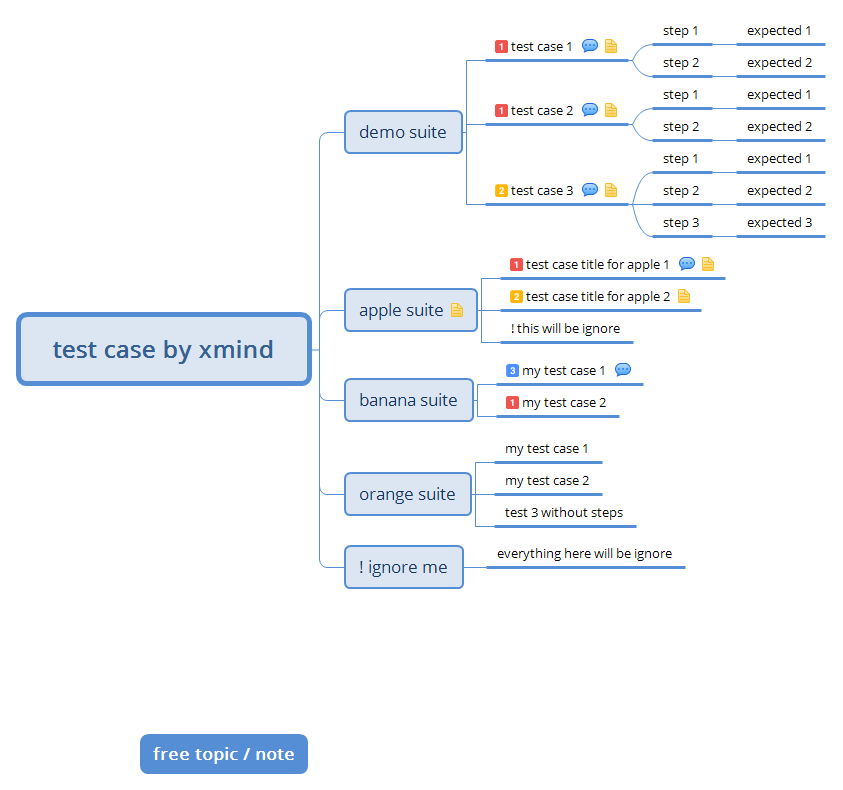
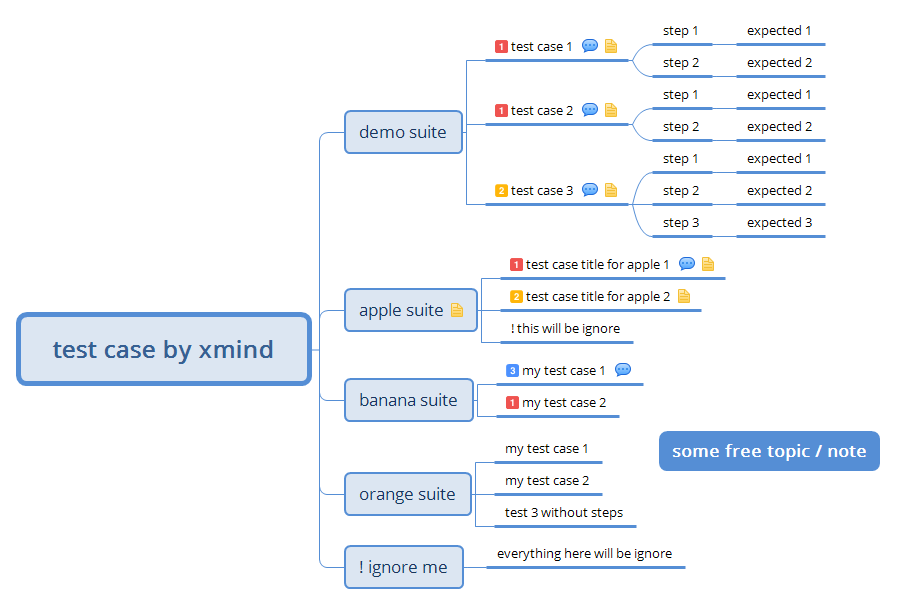
update readme doc.

Changed region(s): [[0.0, 0.0298, 0.987, 0.9818]]

diff --git a/README.md b/README.md
@@ -3,36 +3,35 @@ With this project, you will be able to convert [xmind](https://www.xmind.net/) t
 
 ## Design test cases via [xmind](https://www.xmind.net/)
 
-Xmind is an excellent mindmap tool, which can help you design test cases easily. To create a *convertible* xmind, please do it like this:
+Xmind is an excellent mindmap tool, which can help you design test cases easily.  To create a ***convertible*** xmind, please design your test cases like this:
 
 ![test_case_by_xmind](doc/test_case_by_xmind.png)
 
-Please note:
+**Please note:**
 
-1. The root topic will not be converted, treat it as target suite node in testlink.
-2. `Notes` for a test suite will be converted to `details` in testlink.
-3. `Notes` for a test case will be converted to `summary` in testlink.
-4. `Comments` for a test case will be converted to `preconditions` in testlink.
-5. `Priority` maker for a test case will be converted to `importance` in testlink.
-6. Sub topic for test case will be treated as test step.
+1. `Notes` for a test suite will be converted to `details` in TestLink.
+2. `Notes` for a test case will be converted to `summary` in TestLink.
+3. `Comments` for a test case will be converted to `preconditions` in TestLink.
+4. `Priority` maker for a test case will be converted to `importance` in TestLink.
+5. Sub topics for a test case will be treated as test steps.
    - It is okay to design test step **with action** but **without expected results**.
-7. Use `!` to ignore any test suite / test case / test step that you don't want to import.
+6. Use `!` to ignore any test suite / test case / test step that you don't want to convert.
+7. The root topic will not be converted, please treat it as target suite node in TestLink.
 8. Free topic and notes will not be converted.
-9. Only mindmap in first sheet will be converted.
+9. Only the mindmap in first sheet will be converted.
 
-Hint: Download the sample xmind file: [test_case_by_xmind](doc/test_case_by_xmind.xmind)
+Download the sample xmind file: [test_case_by_xmind](doc/test_case_by_xmind.xmind)
 
 ## Generate the TestLink xml file
 
-Once your xmind had been created, use this small tool to convert it to testlink recognized xml file, cd the `src` directory in command prompt:
+Once your xmind had been created, use bellow command to convert it to TestLink recognized xml file.
 
 ```shell
+cd src
 python xmind2testlink.py /path/to/testcase.xmind
 ```
 
 An xml with same name will be generated in your xmind directory.
-
-
 
 ## Import the xml into TestLink
 
@@ -54,13 +53,11 @@ The field mapping looks like below figure.
 
 ## Advanced usage
 
-I also build a simple webpage to host this feature, you could go into the `web` folder to checkout.
-
-To starting the website, the command is:
+A simple webpage to host this feature also has been built in  `web` folder. To starting the website, here is the command:
 
 ```shell
 cd web
 python application.py
 ```
 
-Start a browser, then you will be able to convert xmind to TestLink via http://127.0.0.1:5000.
+Start a browser, then you will be able to convert xmind to TestLink via http://127.0.0.1:5000. I am not good at web design, but I am trying my best to provide a friendly interface :(-)
